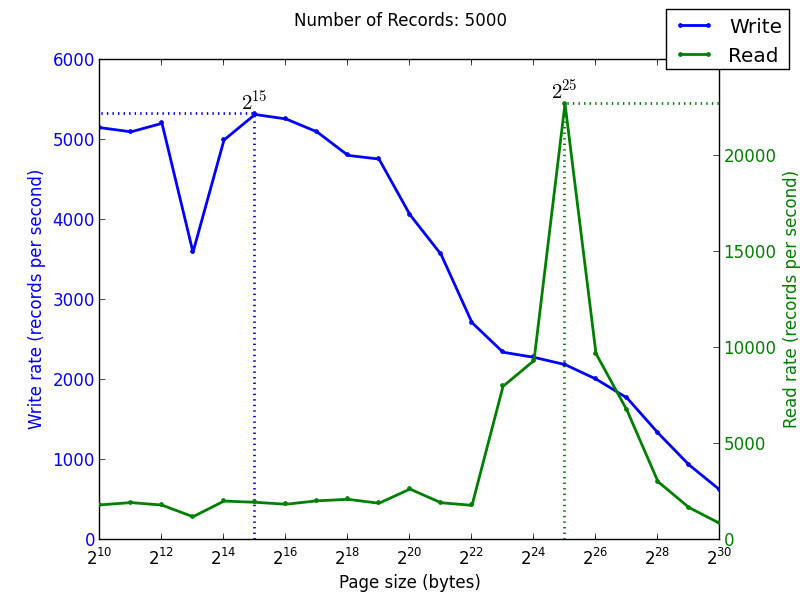
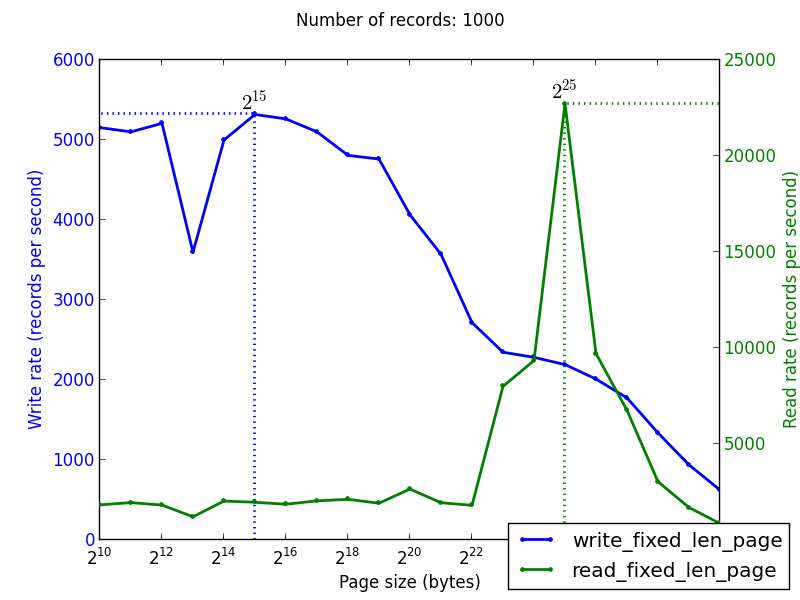
PLOTS PLOTS PLOTS

Changed region(s): [[0.625, 0.87, 1.0, 0.99], [0.8125, 0.0, 1.0, 0.12], [0.375, 0.0, 0.625, 0.06]]

diff --git a/pl2/report/heap-csv/plot.py b/pl2/report/heap-csv/plot.py
@@ -1,0 +1,92 @@
+import csv
+import argparse
+import operator
+from numpy import log2
+import matplotlib.pyplot as plt
+
+SND = operator.itemgetter(1)
+RECORD_COUNT = 50000
+
+
+def main():
+    parser = argparse.ArgumentParser()
+    parser.add_argument('file', type=argparse.FileType('rb'), metavar='FILE')
+    parser.add_argument('--title', '-t', type=str, metavar='TITLE',
+                        default='Number of records: 50000')
+    parser.add_argument('--no-max', '-n', action='store_false',
+                        dest='mark_max')
+    parser.add_argument('--output', '-o', metavar='FILE', default=None)
+
+    args = parser.parse_args()
+
+    rows = (map(int, row) for row in csv.reader(args.file))
+    page_sizes, c2h_times, h2c_times = zip(*rows)
+
+    # Time in milliseconds to Rate of writing in records per second.
+    to_rate = lambda t: RECORD_COUNT * 1000.0 / float(t)
+
+    c2h_rates = [to_rate(t) for t in c2h_times]
+    h2c_rates = [to_rate(t) for t in h2c_times]
+
+    # Page sizes with the maximum read and write rates.
+    max_c2h = max(zip(page_sizes, c2h_rates), key=SND)
+    max_h2c = max(zip(page_sizes, h2c_rates), key=SND)
+
+    fig = plt.figure()
+    fig.suptitle(args.title)
+
+    # Plot write times
+    c2h_plot = fig.add_subplot(111)
+    (c2h_line,) = c2h_plot.semilogx(page_sizes, c2h_rates, 'b.-', basex=2,
+                                    linewidth=2)
+    c2h_plot.set_xlabel('Page size (bytes)')
+    c2h_plot.set_ylabel('Records per second', color='b')
+
+    # Mark off block size with the maximum write rate.
+    if args.mark_max:
+        c2h_plot.plot([max_c2h[0]] * 2 + [c2h_plot.get_xlim()[0]],
+                      [c2h_plot.get_ylim()[0]] + [max_c2h[1]] * 2,
+                      color='b', linestyle=':', linewidth=2)
+        c2h_plot.annotate('$2^{%d}$' % log2(max_c2h[0]), fontsize=15,
+                          xy=max_c2h, verticalalignment='top',
+                          horizontalalignment='left')
+
+    # Color the write time ticks blue
+    for t in c2h_plot.get_yticklabels():
+        t.set_color('b')
+
+    # Plot read times
+    h2c_plot = c2h_plot.twinx()
+    (h2c_line,) = h2c_plot.semilogx(page_sizes, h2c_rates, 'g.-', basex=2,
+                                    linewidth=2)
+    h2c_plot.set_ylabel('Records per second', color='g')
+
+    # Add a little wiggle room to the read time Y limits
+    if False:
+        lo, hi = h2c_plot.get_ylim()
+        h2c_plot.set_ylim([lo, hi*1.025])
+
+    # Mark off block size with maximum read rate.
+    if args.mark_max:
+        h2c_plot.plot([max_h2c[0]] * 2 + [h2c_plot.get_xlim()[1]],
+                      [h2c_plot.get_ylim()[0]] + [max_h2c[1]] * 2,
+                      color='g', linestyle=':', linewidth=2)
+        h2c_plot.annotate('$2^{%d}$' % log2(max_h2c[0]), fontsize=15,
+                          xy=max_h2c, verticalalignment='bottom',
+                          horizontalalignment='center')
+
+    # Color the read time ticks greed
+    for t in h2c_plot.get_yticklabels():
+        t.set_color('g')
+
+    # Add a legend
+    fig.legend((c2h_line, h2c_line), ('csv2heapfile', 'heapfile2csv'),
+               loc='lower right')
+
+    if args.output is not None:
+        fig.savefig(args.output)
+    else:
+        plt.show()
+
+if __name__ == '__main__':
+    main()

diff --git a/pl2/report/page-layout/plot.py b/pl2/report/page-layout/plot.py
@@ -81,7 +81,9 @@ def main():
         t.set_color('g')
 
     # Add a legend
-    fig.legend((w_line, r_line), ('Write', 'Read'), loc='upper right')
+    fig.legend((w_line, r_line), ('write_fixed_len_page',
+                                  'read_fixed_len_page'),
+               loc='lower right')
 
     if args.output is not None:
         fig.savefig(args.output)
